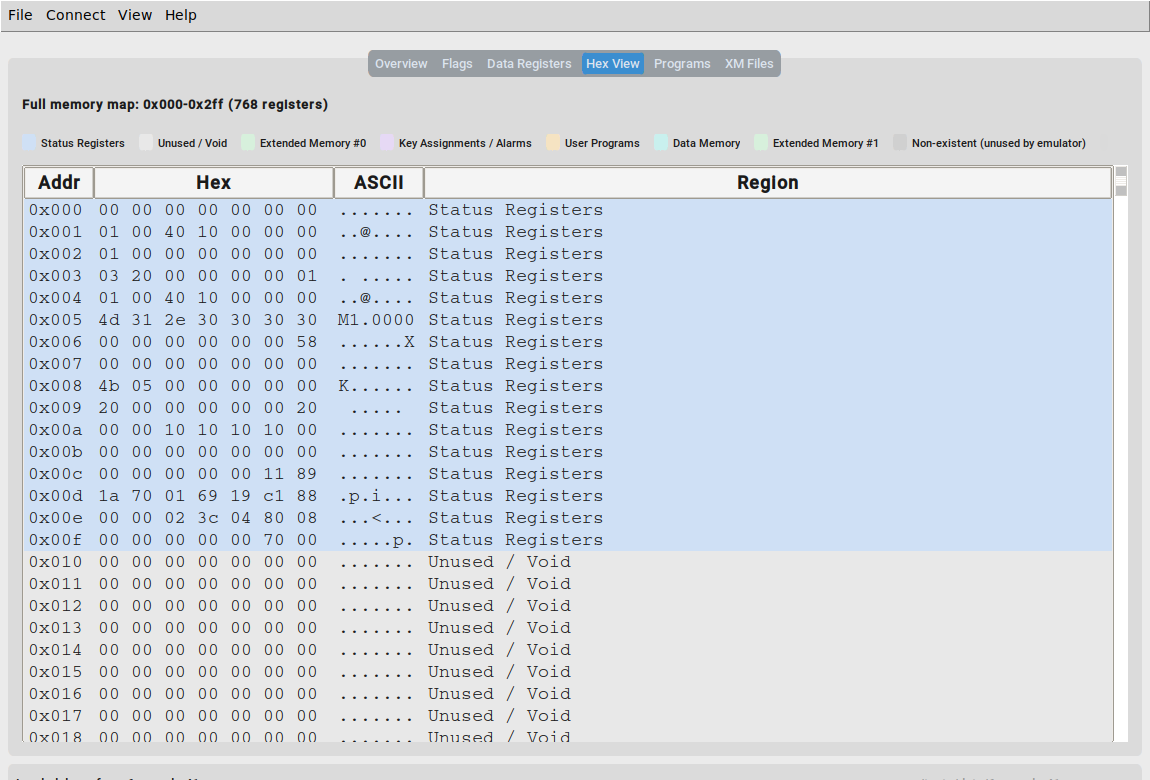
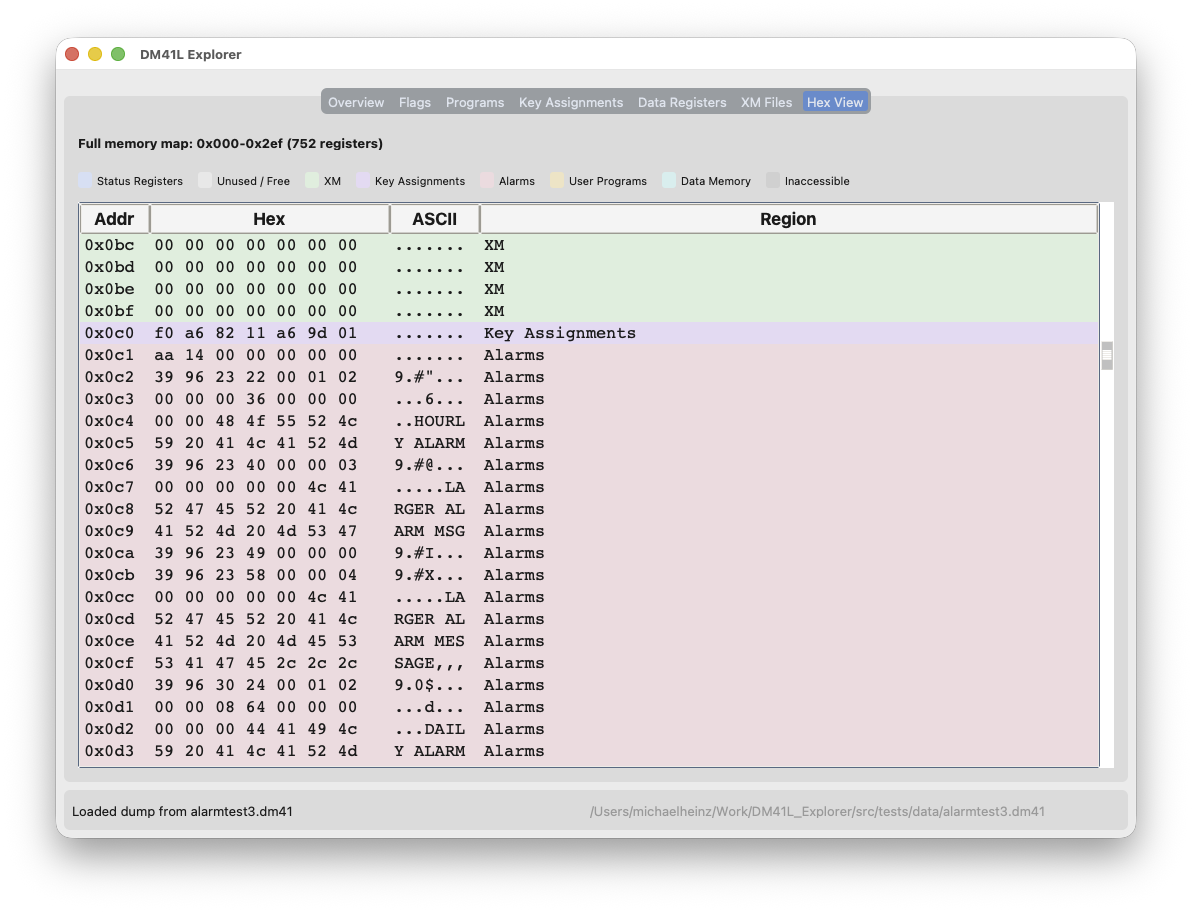
More README.md updates.

diff --git a/README.md b/README.md
@@ -163,7 +163,7 @@ is strictly read-only.
 
 ### Key Assignments Tab
 
-| ![Overview](resources/screenshots/key_assigns.png)
+![Key Assigns](resources/screenshots/key_assigns.png)
 
 The Key Assignments tab allows you to view and edit the user key assignments in
 the loaded dump. It displays the keys both in the original HP41 layout and (if
@@ -171,6 +171,32 @@ you scroll down) the DM41L layout. Clicking on a key will let you edit that
 key's current assignment - you can either select one of the built-in HP41CX
 functions, or one of the currently loaded programs, or enter in two hexadecimal
 bytes if you want to experiment with synthetic programming.
+
+### Data Registers Tab
+
+![Data Registers](resources/screenshots/registers_view.png)
+
+The Data Registers view shows the contents of user memory, and allows you to
+import, export, and alter portions of it. It's broken into two halves (to make
+better use of space) and you can enter BCD, ASCII, or hexadecimal data into any
+register. Select a register with the mouse, then click on the desired action.
+
+### XM Files Tab
+
+![XM Files](resources/screenshots/xm_files.png)
+
+The XM Files view is organized similarly to the Data Registers view, and allows
+you to import, export, and alter files in Extended Memory. Unlike the Data
+Registers view, XM Files does limit you to either BCD or ASCII data, and
+Program files cannot be altered at this time.
+
+### Hex View Tab
+
+
+![Hex View](resources/screenshots/hex_view.png)
+
+The Hex view shows the raw contents of calculator memory, color-coded by the
+region. It is useful for studying how HP41 memory is organized.
 
 ## Documentation
 
